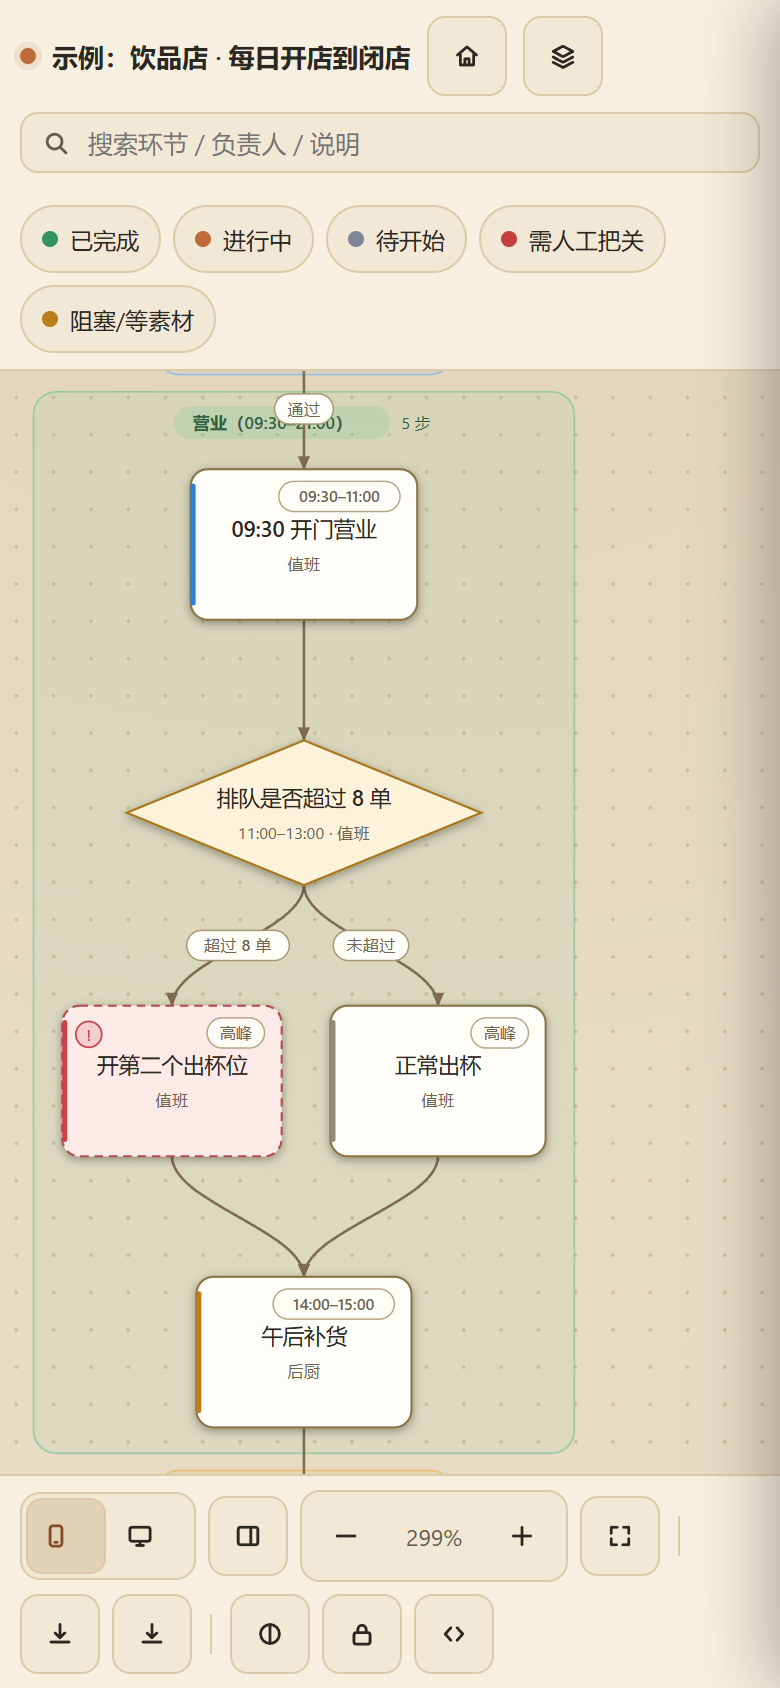
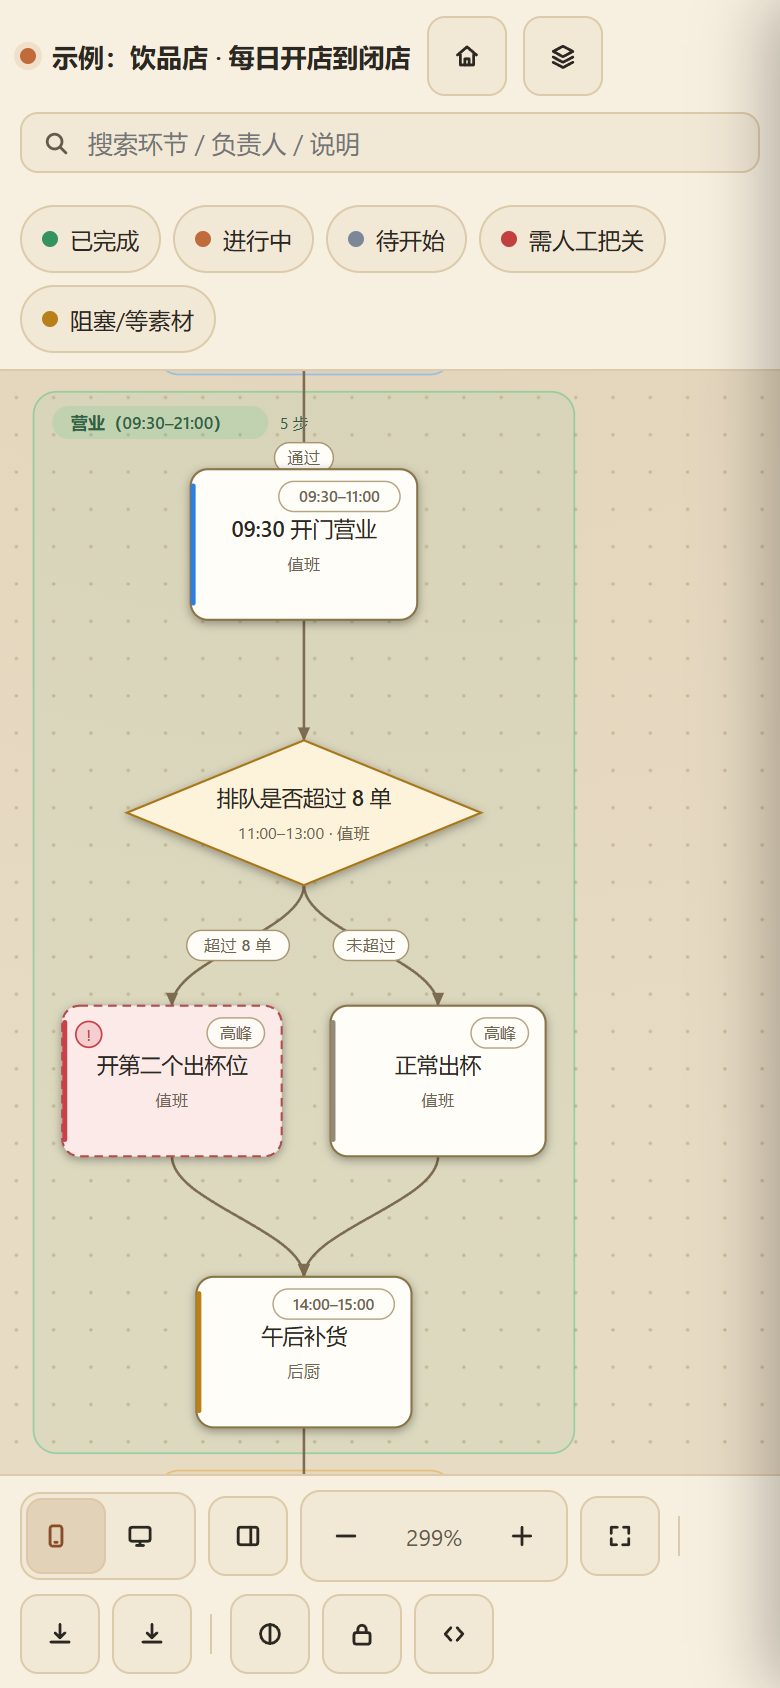
feat(v1.2.3): 分组带标题改为左上对齐 + 边标签避让标题行；README 英文版、双语切换、截图与徽章一并发布

Changed region(s): [[0.0615, 0.2156, 0.4923, 0.2773]]

diff --git a/docs/demo.html b/docs/demo.html
@@ -6,7 +6,7 @@
 <meta name="flow-viz" content="1">
 <meta name="flow-title" content="示例：饮品店 · 每日开店到闭店">
 <meta name="flow-stats" content="13|13|3|577x2296|1134x824|done:3,doing:2,todo:6,risk:1,hold:1">
-<meta name="flow-version" content="1.2.2">
+<meta name="flow-version" content="1.2.3">
 <title>示例：饮品店 · 每日开店到闭店</title>
 <script>
 /* 主题引导：必须在首帧前跑，否则会闪一下深色。
@@ -345,9 +345,9 @@
 </g>
 <g class="band">
 <rect class="band-bg" x="40.0" y="778.0" width="377.0" height="740.0" rx="16" fill="#3fbf7f" fill-opacity="0.075" stroke="#3fbf7f" stroke-opacity="0.46"/>
-<rect class="band-pill" x="138.0" y="788.0" width="150.6" height="23" rx="11.5" fill="#3fbf7f"/>
-<text class="band-label" x="151.0" y="804.0" fill="#3fbf7f" style="--c:#3fbf7f">营业（09:30–21:00）</text>
-<text class="band-count" x="296.6" y="804.0" fill="#3fbf7f" style="--c:#3fbf7f" opacity="0.8">5 步</text>
+<rect class="band-pill" x="53.0" y="788.0" width="150.6" height="23" rx="11.5" fill="#3fbf7f"/>
+<text class="band-label" x="66.0" y="804.0" fill="#3fbf7f" style="--c:#3fbf7f">营业（09:30–21:00）</text>
+<text class="band-count" x="211.6" y="804.0" fill="#3fbf7f" style="--c:#3fbf7f" opacity="0.8">5 步</text>
 </g>
 <g class="band">
 <rect class="band-bg" x="125.5" y="1530.0" width="207.0" height="726.0" rx="16" fill="#e0a030" fill-opacity="0.075" stroke="#e0a030" stroke-opacity="0.46"/>
@@ -368,7 +368,7 @@
 <path class="edge" data-from="i" data-to="j" marker-end="url(#arrow-portrait)" d="M228.5,1689.0 C228.5,1720.9 228.5,1741.1 228.5,1773.0"/>
 <path class="edge" data-from="j" data-to="k" marker-end="url(#arrow-portrait)" d="M228.5,1878.0 C228.5,1909.9 228.5,1930.1 228.5,1962.0"/>
 <path class="edge" data-from="k" data-to="l" marker-end="url(#arrow-portrait)" d="M228.5,2067.0 C228.5,2098.9 228.5,2119.1 228.5,2151.0"/>
-<g class="edge-label-g" data-from="c" data-to="d"><rect class="edge-label-bg" x="208.0" y="779.5" width="41.0" height="21" rx="10.5"/><text class="edge-label" x="228.5" y="794.0">通过</text></g>
+<g class="edge-label-g" data-from="c" data-to="d"><rect class="edge-label-bg" x="208.0" y="813.5" width="41.0" height="21" rx="10.5"/><text class="edge-label" x="228.5" y="828.0">通过</text></g>
 <g class="edge-label-g" data-from="e" data-to="f"><rect class="edge-label-bg" x="146.8" y="1153.5" width="71.5" height="21" rx="10.5"/><text class="edge-label" x="182.5" y="1168.0">超过 8 单</text></g>
 <g class="edge-label-g" data-from="e" data-to="g"><rect class="edge-label-bg" x="249.0" y="1153.5" width="52.5" height="21" rx="10.5"/><text class="edge-label" x="275.3" y="1168.0">未超过</text></g>
 <g class="node k-start st-done" data-id="s" data-status="done" data-kind="start" transform="translate(153.5,94.0)">
@@ -581,9 +581,9 @@
 </g>
 <g class="band">
 <rect class="band-bg" x="316.0" y="40.0" width="377.0" height="744.0" rx="16" fill="#3fbf7f" fill-opacity="0.075" stroke="#3fbf7f" stroke-opacity="0.46"/>
-<rect class="band-pill" x="414.0" y="50.0" width="150.6" height="23" rx="11.5" fill="#3fbf7f"/>
-<text class="band-label" x="427.0" y="66.0" fill="#3fbf7f" style="--c:#3fbf7f">营业（09:30–21:00）</text>
-<text class="band-count" x="572.6" y="66.0" fill="#3fbf7f" style="--c:#3fbf7f" opacity="0.8">5 步</text>
+<rect class="band-pill" x="329.0" y="50.0" width="150.6" height="23" rx="11.5" fill="#3fbf7f"/>
+<text class="band-label" x="342.0" y="66.0" fill="#3fbf7f" style="--c:#3fbf7f">营业（09:30–21:00）</text>
+<text class="band-count" x="487.6" y="66.0" fill="#3fbf7f" style="--c:#3fbf7f" opacity="0.8">5 步</text>
 </g>
 <g class="band">
 <rect class="band-bg" x="767.0" y="40.0" width="207.0" height="735.0" rx="16" fill="#e0a030" fill-opacity="0.075" stroke="#e0a030" stroke-opacity="0.46"/>
@@ -734,7 +734,7 @@
   <button id="theme" class="icon-btn" title="明/暗"><svg viewBox="0 0 16 16" aria-hidden="true"><path d="M8 2.6a5.4 5.4 0 100 10.8A5.4 5.4 0 008 2.6z"/><path d="M8 2.6v10.8"/></svg><span>明/暗</span></button>
   <button id="lock" class="icon-btn lock-btn" title="锁定颜色"><svg viewBox="0 0 16 16" aria-hidden="true"><rect x="3.4" y="7.2" width="9.2" height="6.6" rx="1.4"/><path d="M5.6 7.2V5.4a2.4 2.4 0 014.8 0v1.8"/></svg><span>锁定颜色</span></button>
   <button id="mmd-toggle" class="icon-btn" title="Mermaid"><svg viewBox="0 0 16 16" aria-hidden="true"><path d="M6.2 4.4L3 8l3.2 3.6M9.8 4.4L13 8l-3.2 3.6"/></svg><span>Mermaid</span></button>
-  <span class="foot-hint"><span class="only-pc">按屏幕自动选竖/横版 · 滚轮缩放 · 拖拽平移 · 双击空白适配 · Esc 取消选中 · 生成器 v1.2.2 · 由 jimku233 制作 · B 站 @jimi绝不吐槽</span><span class="only-touch">按屏幕自动选竖/横版 · 单指拖动 · 双指缩放 · 点环节看详情 · 生成器 v1.2.2</span></span>
+  <span class="foot-hint"><span class="only-pc">按屏幕自动选竖/横版 · 滚轮缩放 · 拖拽平移 · 双击空白适配 · Esc 取消选中 · 生成器 v1.2.3 · 由 jimku233 制作 · B 站 @jimi绝不吐槽</span><span class="only-touch">按屏幕自动选竖/横版 · 单指拖动 · 双指缩放 · 点环节看详情 · 生成器 v1.2.3</span></span>
 </footer>
 <div id="mmd-panel">
   <div style="display:flex;gap:8px;align-items:center;margin-bottom:8px">

diff --git a/tools/tests/baseline/demo.html b/tools/tests/baseline/demo.html
@@ -6,7 +6,7 @@
 <meta name="flow-viz" content="1">
 <meta name="flow-title" content="示例：饮品店 · 每日开店到闭店">
 <meta name="flow-stats" content="13|13|3|577x2296|1134x824|done:3,doing:2,todo:6,risk:1,hold:1">
-<meta name="flow-version" content="1.2.2">
+<meta name="flow-version" content="1.2.3">
 <title>示例：饮品店 · 每日开店到闭店</title>
 <script>
 /* 主题引导：必须在首帧前跑，否则会闪一下深色。
@@ -345,9 +345,9 @@
 </g>
 <g class="band">
 <rect class="band-bg" x="40.0" y="778.0" width="377.0" height="740.0" rx="16" fill="#3fbf7f" fill-opacity="0.075" stroke="#3fbf7f" stroke-opacity="0.46"/>
-<rect class="band-pill" x="138.0" y="788.0" width="150.6" height="23" rx="11.5" fill="#3fbf7f"/>
-<text class="band-label" x="151.0" y="804.0" fill="#3fbf7f" style="--c:#3fbf7f">营业（09:30–21:00）</text>
-<text class="band-count" x="296.6" y="804.0" fill="#3fbf7f" style="--c:#3fbf7f" opacity="0.8">5 步</text>
+<rect class="band-pill" x="53.0" y="788.0" width="150.6" height="23" rx="11.5" fill="#3fbf7f"/>
+<text class="band-label" x="66.0" y="804.0" fill="#3fbf7f" style="--c:#3fbf7f">营业（09:30–21:00）</text>
+<text class="band-count" x="211.6" y="804.0" fill="#3fbf7f" style="--c:#3fbf7f" opacity="0.8">5 步</text>
 </g>
 <g class="band">
 <rect class="band-bg" x="125.5" y="1530.0" width="207.0" height="726.0" rx="16" fill="#e0a030" fill-opacity="0.075" stroke="#e0a030" stroke-opacity="0.46"/>
@@ -368,7 +368,7 @@
 <path class="edge" data-from="i" data-to="j" marker-end="url(#arrow-portrait)" d="M228.5,1689.0 C228.5,1720.9 228.5,1741.1 228.5,1773.0"/>
 <path class="edge" data-from="j" data-to="k" marker-end="url(#arrow-portrait)" d="M228.5,1878.0 C228.5,1909.9 228.5,1930.1 228.5,1962.0"/>
 <path class="edge" data-from="k" data-to="l" marker-end="url(#arrow-portrait)" d="M228.5,2067.0 C228.5,2098.9 228.5,2119.1 228.5,2151.0"/>
-<g class="edge-label-g" data-from="c" data-to="d"><rect class="edge-label-bg" x="208.0" y="779.5" width="41.0" height="21" rx="10.5"/><text class="edge-label" x="228.5" y="794.0">通过</text></g>
+<g class="edge-label-g" data-from="c" data-to="d"><rect class="edge-label-bg" x="208.0" y="813.5" width="41.0" height="21" rx="10.5"/><text class="edge-label" x="228.5" y="828.0">通过</text></g>
 <g class="edge-label-g" data-from="e" data-to="f"><rect class="edge-label-bg" x="146.8" y="1153.5" width="71.5" height="21" rx="10.5"/><text class="edge-label" x="182.5" y="1168.0">超过 8 单</text></g>
 <g class="edge-label-g" data-from="e" data-to="g"><rect class="edge-label-bg" x="249.0" y="1153.5" width="52.5" height="21" rx="10.5"/><text class="edge-label" x="275.3" y="1168.0">未超过</text></g>
 <g class="node k-start st-done" data-id="s" data-status="done" data-kind="start" transform="translate(153.5,94.0)">
@@ -581,9 +581,9 @@
 </g>
 <g class="band">
 <rect class="band-bg" x="316.0" y="40.0" width="377.0" height="744.0" rx="16" fill="#3fbf7f" fill-opacity="0.075" stroke="#3fbf7f" stroke-opacity="0.46"/>
-<rect class="band-pill" x="414.0" y="50.0" width="150.6" height="23" rx="11.5" fill="#3fbf7f"/>
-<text class="band-label" x="427.0" y="66.0" fill="#3fbf7f" style="--c:#3fbf7f">营业（09:30–21:00）</text>
-<text class="band-count" x="572.6" y="66.0" fill="#3fbf7f" style="--c:#3fbf7f" opacity="0.8">5 步</text>
+<rect class="band-pill" x="329.0" y="50.0" width="150.6" height="23" rx="11.5" fill="#3fbf7f"/>
+<text class="band-label" x="342.0" y="66.0" fill="#3fbf7f" style="--c:#3fbf7f">营业（09:30–21:00）</text>
+<text class="band-count" x="487.6" y="66.0" fill="#3fbf7f" style="--c:#3fbf7f" opacity="0.8">5 步</text>
 </g>
 <g class="band">
 <rect class="band-bg" x="767.0" y="40.0" width="207.0" height="735.0" rx="16" fill="#e0a030" fill-opacity="0.075" stroke="#e0a030" stroke-opacity="0.46"/>
@@ -734,7 +734,7 @@
   <button id="theme" class="icon-btn" title="明/暗"><svg viewBox="0 0 16 16" aria-hidden="true"><path d="M8 2.6a5.4 5.4 0 100 10.8A5.4 5.4 0 008 2.6z"/><path d="M8 2.6v10.8"/></svg><span>明/暗</span></button>
   <button id="lock" class="icon-btn lock-btn" title="锁定颜色"><svg viewBox="0 0 16 16" aria-hidden="true"><rect x="3.4" y="7.2" width="9.2" height="6.6" rx="1.4"/><path d="M5.6 7.2V5.4a2.4 2.4 0 014.8 0v1.8"/></svg><span>锁定颜色</span></button>
   <button id="mmd-toggle" class="icon-btn" title="Mermaid"><svg viewBox="0 0 16 16" aria-hidden="true"><path d="M6.2 4.4L3 8l3.2 3.6M9.8 4.4L13 8l-3.2 3.6"/></svg><span>Mermaid</span></button>
-  <span class="foot-hint"><span class="only-pc">按屏幕自动选竖/横版 · 滚轮缩放 · 拖拽平移 · 双击空白适配 · Esc 取消选中 · 生成器 v1.2.2 · 由 jimku233 制作 · B 站 @jimi绝不吐槽</span><span class="only-touch">按屏幕自动选竖/横版 · 单指拖动 · 双指缩放 · 点环节看详情 · 生成器 v1.2.2</span></span>
+  <span class="foot-hint"><span class="only-pc">按屏幕自动选竖/横版 · 滚轮缩放 · 拖拽平移 · 双击空白适配 · Esc 取消选中 · 生成器 v1.2.3 · 由 jimku233 制作 · B 站 @jimi绝不吐槽</span><span class="only-touch">按屏幕自动选竖/横版 · 单指拖动 · 双指缩放 · 点环节看详情 · 生成器 v1.2.3</span></span>
 </footer>
 <div id="mmd-panel">
   <div style="display:flex;gap:8px;align-items:center;margin-bottom:8px">

diff --git a/references/spec.md b/references/spec.md
@@ -127,8 +127,8 @@ flowchart TD
 5. 层间距 **84px**、同层间距 **34px**；列间距（分栏时）118px。
 6. 回边（含环）与同层边：走**本列右侧**正交旁路，拐角做 9px 圆角（`orthoPath`），不会横穿节点。
 6b. **分组带上内边距 54px**：标题药丸画在带顶 +10~+33，第一个节点顶边在 +54 → 约 21px 呼吸感。早期只留 34px（药丸底边离节点仅 1px），看着"标题贴着流程步骤"。
-6c. **标题「药丸 + N 步」在带内水平居中**：`lx = b.x + max(13, (b.w - (药丸宽 + 8 + 计数宽)) / 2)`；早期靠左对齐。宽度公式里的文字宽用 `units()*12.4`（药丸）/`*12`（计数），与渲染保持一致。
-6d. **分组带宽度 = max(成员包围盒 + 40, 26 + 药丸宽 + 8 + 计数宽)**：否则长标题（如 `阶段三｜材料与门槛判定（2027.9–2028.7）`）会探出带外。已按 12 个分组逐一核对：全部在框内且居中。
+6c. **标题「药丸 + N 步」靠带内左上角**：`lx = b.x + 13`（固定左内边距）。2026-10 之前是「药丸 + 计数」整组水平居中，带一宽标题就被拱到中间，长标题也容易被挤；改成左对齐后带宽变化时标题位置稳定，读起来像泳道图表头。宽度公式里的文字宽用 `units()*12.4`（药丸）/`*12`（计数），与渲染保持一致。
+6d. **分组带宽度 = max(成员包围盒 + 40, 26 + 药丸宽 + 8 + 计数宽)**：否则长标题（如 `阶段三｜材料与门槛判定（2027.9–2028.7）`）会探出带外。已按 12 个分组逐一核对：全部在框内且不越界。
 7. **分栏（wrap）**：参数是「每栏行数」`R`，栏数 `C = ceil(层数 / R)`。层 `i` 落在第 `floor(i/R)` 栏、第 `i%R` 行；**每栏都从上往下读**（不做蛇形，否则箭头方向会上下交替）。`R` 由 `pickWrapRows` 在 1..L 之间选，评分是 `|log((W/H) / 目标宽高比)|`，目标默认 1.6。
 8. **跨栏连线**：源/目标所在行都只有 1 个节点时走**列间空隙**（源右侧 → 空隙 → 目标左侧，路径最短）；否则走**底部走廊**（源底部 → 走廊 → 空隙 → 目标侧面），保证不横穿节点。
 9. `direction: "LR"` 的实现是**先在 TD 空间排版再整体转置**，所以节点宽高会互换。注意长链用 LR 会得到极扁的 4:1 长条，fit 后字很小——**链式流程要横向请用分栏，不要用 LR**。
@@ -147,7 +147,7 @@ flowchart TD
 | 时间窗 | 右上角胶囊药丸（普通节点）；判断节点没有图标行，时间并入标题下方小字。药丸本身是"高 21 的胶囊"，**同样按 `fitPill()` 内推**：右边距固定 12 对圆角卡片够（余量 8.5px），但胶囊的右上角是弧，硬贴右边会顶出 -3.6px |
 | 连线 | 1.7px，贝塞尔控制点 `max(26, 0.38×Δy)`；虚线边 `5 5`；箭头为 12×12 三角 marker |
 | 边标签 | 圆角 10.5 胶囊 + 描边，不会和线糊在一起 |
-| 分组带 | 6% 透明度填充 + 34% 描边 + 圆角 16；左上角是**标签胶囊 + 带外的「N 步」计数**，二者作为一组在带内居中；带比节点列宽时**左右对称外扩**（不往右单边长），这样所有带的中心线对齐、节点列永远居中 |
+| 分组带 | 6% 透明度填充 + 34% 描边 + 圆角 16；左上角是**标签胶囊 + 带外的「N 步」计数**，二者作为一组靠**左上**（左内边距 13，2026-10 起不再居中）；带比节点列宽时**左右对称外扩**（不往右单边长），这样所有带的中心线对齐、节点列永远居中 |
 | 交互态 | 选中：2.4px 描边 + 蓝色辉光；搜索命中：蓝色 `--hit` 描边；筛选/淡出：12% 透明度 + 灰度 |
 
 ### 主题与可读性（浅色为什么这么配色）

diff --git a/CHANGELOG.md b/CHANGELOG.md
@@ -2,6 +2,20 @@
 
 记录**使用者能看到**的变化；纯内部重构会注明「产物不变」。
 
+## v1.2.3（2026-10）
+
+**改动**
+
+- **分组带标题改为左上对齐**：以前「标签胶囊 + N 步」是作为一组在带内水平居中的 —— 带比节点列宽时标题会被拱到中间，长标题（如「阶段三｜材料与门槛判定（2027.9–2028.7）」）也容易被挤。现在统一靠**左上角**（左内边距 13px），带宽变化时标题位置稳定，读起来像泳道图的表头。`references/spec.md` 的 6c / 6d 与「分组带」条目已同步改写。
+
+**文档**
+
+- 新增 **[README.en.md](README.en.md) 英文版**，与中文版逐节对应；两版顶部都有 `简体中文 | English` 切换（GitHub 首页只渲染 `README.md`，英文版需要点链接进入）。
+- README 顶部加 CI / MIT / Node 三个徽章，以及**在线演示**链接（GitHub Pages）。
+- 两张截图重拍：手机竖版换成「排队判断 → 午后补货」这一段的等比例取景（保留界面），电脑横版换深色。
+
+> 怎么确认手上这份 HTML 是新的：页面右下角写着 `生成器 v1.2.3`（旧版是 v1.2.2）。这一版**几何变了**（标题位置），旧产物会被首页标成「旧版渲染」，跑一次 `node scripts/flow.mjs refresh <目录>` 即可全部跟上。
+
 ## v1.2.2（2026-10）
 
 **新增**
